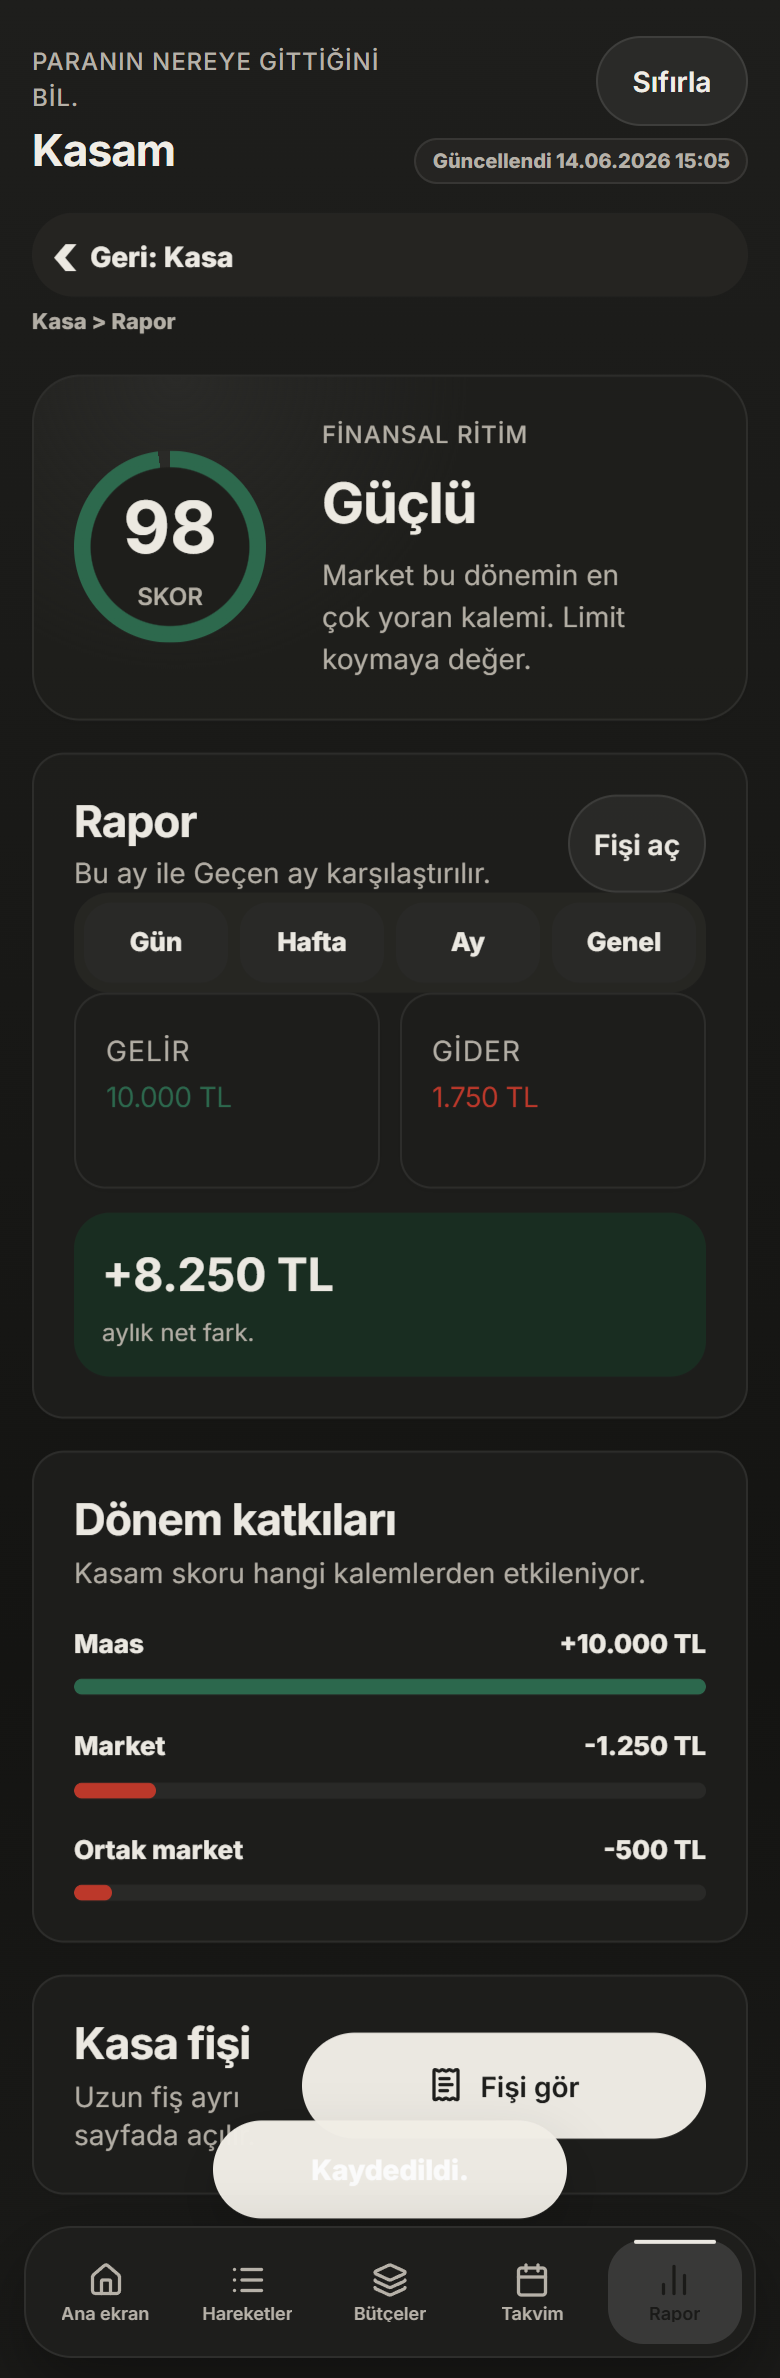
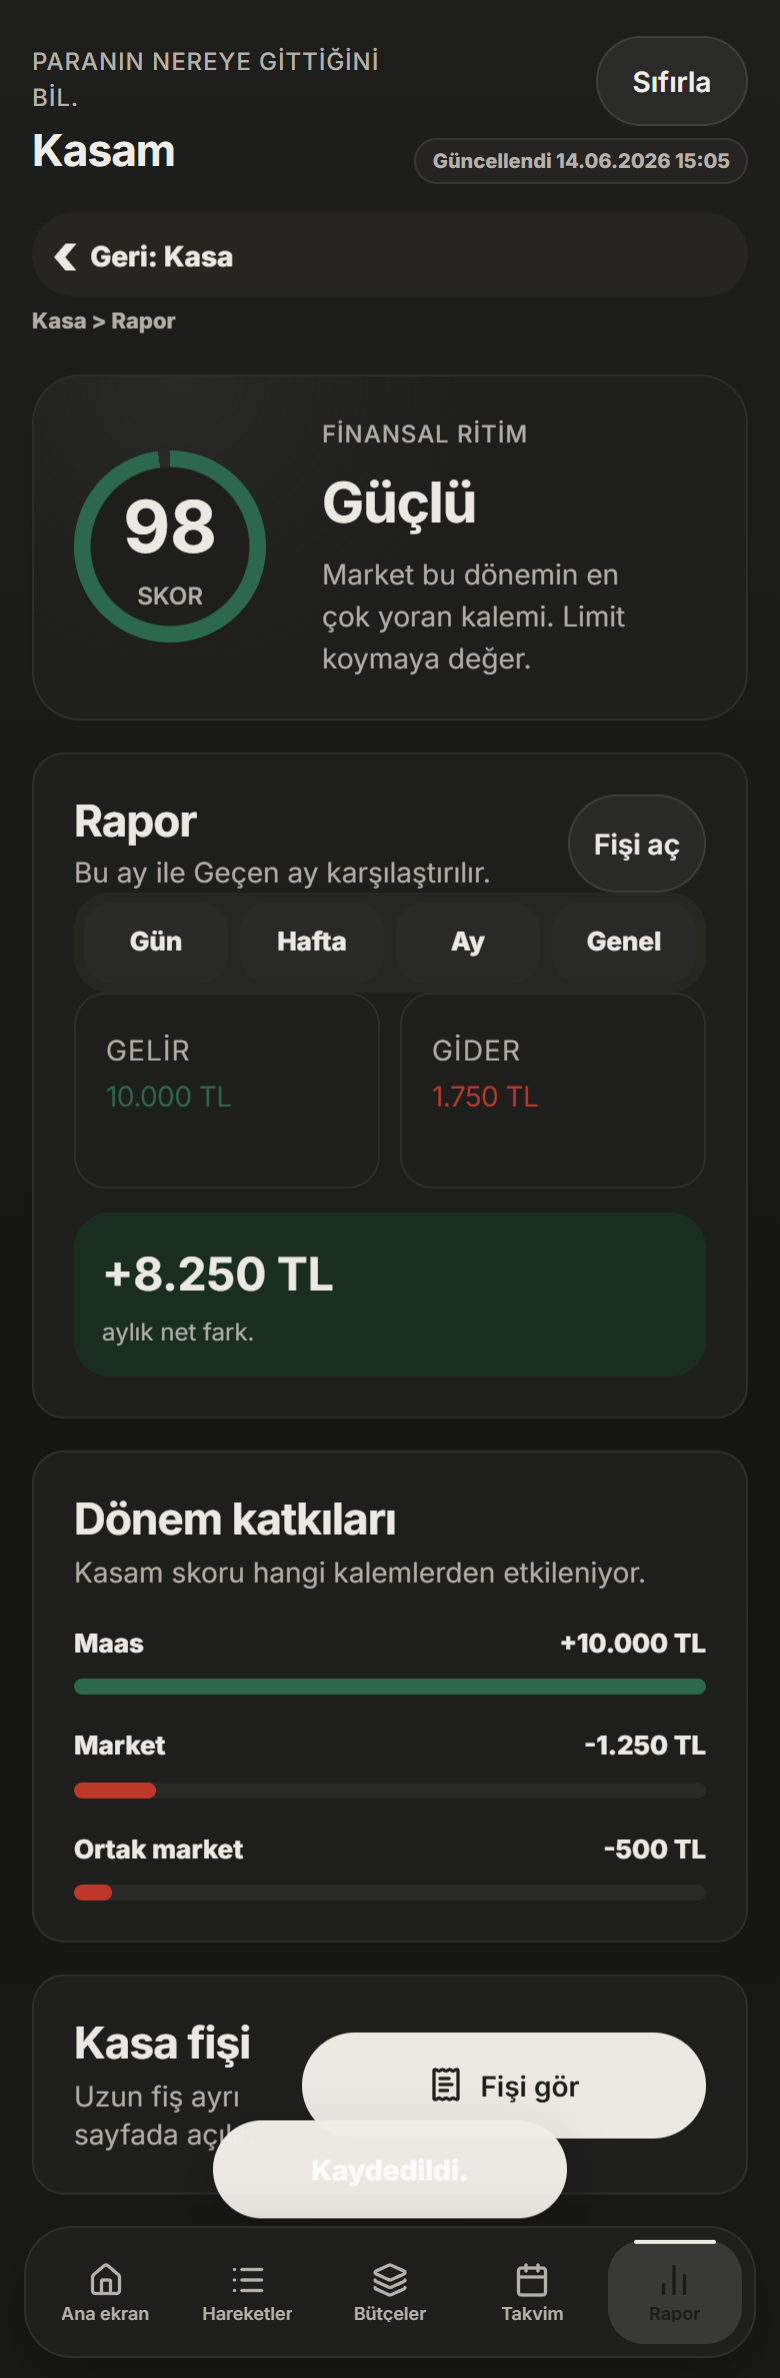
Fix Vercel production build gate

diff --git a/CODEX-CONTEXT.md b/CODEX-CONTEXT.md
@@ -14,9 +14,9 @@ Son güncelleme: 2026-06-14
 ## Teknoloji Stack
 - Frontend: Vanilla JS PWA, CSS custom properties.
 - Backend: Supabase Auth, Database, Realtime ve Storage yaklaşımı.
-- Deploy: Vercel.
+- Deploy: Vercel. Production build komutu `npm run vercel-build`; bu komut sadece statik public paketini uretir.
 - Test: Node.js `.cjs` dosyaları; toplu kapı `scripts/run-all-tests.cjs`.
-- Lint: `kasam-lint.cjs`; `pretest` ve `prebuild` öncesi çalışır.
+- Lint: `kasam-lint.cjs`; local `pretest` ve local `prebuild` öncesi çalışır. Vercel deploy build local test kapilarini calistirmaz.
 
 ## Dosya Yükleme Sırası
 Bu sıra değiştirilmez:
@@ -147,6 +147,13 @@ Tarayıcı tabanlı Playwright testleri mevcut local runtime’da `npm`, `npx` v
 - KURAL-050: Supabase email auth provider, signup ve auth health canli readiness kapisinda kontrol edilir.
 - KURAL-051: Nihai canli dogrulama auth settings, cloud cok kullanici ve reset API sonucunu tek raporda toplar.
 - KURAL-052: Tek canonical uygulama paketi korunur; eski Netlify/prototip kopyasi ve yuklenmeyen `app.js` bundle repoda/deployda tutulmaz.
+- KURAL-053: Vercel build sadece public paketini uretir; local test/lint/cloud kapilari production deploy build'e baglanmaz.
+
+## Vercel Build Protokolu
+- `vercel.json` buildCommand: `npm run vercel-build`.
+- `package.json` `vercel-build`: `node build-public.cjs`.
+- Local kalite kapilari deploydan once ayri kosulur: `node kasam-lint.cjs`, `node scripts/run-all-tests.cjs`, `node scripts/visual-audit.cjs`, gerekli ise final cloud testleri.
+- Vercel deploy logunda test komutlari degil, statik public paket uretimi gorunmelidir.
 
 ## Sifre Sifirlama Canli Kontrolu
 - Auth ayar kontrolu: `npm run test:auth-settings-live`.

diff --git a/app-status-report.md b/app-status-report.md
@@ -199,6 +199,13 @@ Tarih: 2026-06-21
 - GORSEL DOGRULAMA: `scripts/visual-audit.cjs` 14/14 gecti. Gorseller: `C:\Users\IRFAN AYYILDIZ\Desktop\kasam-test\visual-test-202606210436`.
 - CLOUD TEST: Auth settings ve canli stamp PASS (`Guncellendi 14.06.2026 23:05`). Gercek cloud multi-user ve password reset API, test girdileri olmadigi icin `NEEDS_INPUT` durumunda. Readiness raporu: `C:\Users\IRFAN AYYILDIZ\Desktop\kasam-test\readiness-202606210437`; final rapor: `C:\Users\IRFAN AYYILDIZ\Desktop\kasam-test\final-live-validation-202606210438`.
 
+## Son Guncelleme: Vercel Deploy Build Ayrimi - 2026-06-21
+- Vercel production build komutu `npm run vercel-build` olarak ayrildi.
+- `vercel-build` yalnizca `node build-public.cjs` calistirir ve `public` klasorunu uretir.
+- Local kalite kapilari korunur: `node kasam-lint.cjs`, `node scripts/run-all-tests.cjs`, `node scripts/visual-audit.cjs` ve gerekli cloud smoke testleri deploydan once ayri kosulur.
+- `KURAL-053` eklendi: Vercel build komutu local test/lint kapilarini calistirirsa `kasam-lint.cjs` FAIL verir.
+- Sebep: Son Vercel deploylari production build icinde tum test zinciri kosuldugu icin 5 saniyede Error'a dusuyordu ve canli surum eski kalma riski tasiyordu.
+
 ## Son Guncelleme: Kalite Kapilarinin Tek Komuta Baglanmasi - 2026-06-21
 - `scripts/run-all-tests.cjs` eklendi; artik `npm test` ve `npm run test:all` tum `test-*.cjs` dosyalarini calistirir.
 - `npm run test:visual` Playwright CLI yerine mevcut Chrome/CDP tabanli `scripts/visual-audit.cjs` auditini calistirir; Playwright ayrica `npm run test:playwright` olarak korunur.

diff --git a/KASAM-RULES.md b/KASAM-RULES.md
@@ -308,3 +308,9 @@ Her görev sonunda şu kontrol yapılır:
 - Sebep: Eski prototip kopyalari sifre sifirlama, cache, PWA ve kullanici algisinda iki farkli uygulama varmis gibi davranis uretir.
 - Kontrol: `kasam-lint.cjs` `netlify-upload`, `app.js`, `radiant-squirrel`, `kasa-prototip.netlify` ve build/cache icindeki `app.js` referanslarini FAIL yapar.
 - Eklendi: 2026-06-21 - eski prototip temizligi
+
+## KURAL-053: Vercel Build Sadece Paket Uretir
+- Kural: Vercel production build komutu `npm run vercel-build` olmalidir ve bu script sadece `node build-public.cjs` calistirmalidir. Local lint, unit, gorsel ve cloud test kapilari Vercel deploy build icinde calistirilmaz; deploy oncesi ayri kosulur ve ayri raporlanir.
+- Sebep: Production deploy ortami test kosucusu degildir. Tum testleri deploy build'e baglamak Vercel'in statik paketi uretmeden hata vermesine ve canli surumun eski kalmasina sebep olur.
+- Kontrol: `kasam-lint.cjs` `vercel.json` buildCommand alanini ve `package.json` `vercel-build` scriptini kontrol eder; Vercel build komutunda `run-all-tests`, `kasam-lint`, `test:` veya `check:ready` bulunursa FAIL verir.
+- Eklendi: 2026-06-21 - Vercel deploy build ayrimi

diff --git a/KASAM-OWNER-PROFILE.md b/KASAM-OWNER-PROFILE.md
@@ -31,6 +31,7 @@ Son güncelleme: 2026-06-14 — Kural sistemi ve simülasyon hazırlığı
 - “Mükemmel”, “Harika”, “Tabii ki” gibi yapay destek dili kullanma.
 - Uzun plan metinlerini kullanıcı istemedikçe yazma.
 - “Oldu” deme; hangi testin geçtiğini söyle.
+- Vercel production deploy'unu local test koşucusuna çevirme; deploy sadece paket üretmeli, kalite kanıtı ayrı raporlanmalı.
 
 ## Özellik Öncelikleri
 
@@ -59,6 +60,7 @@ Son güncelleme: 2026-06-14 — Kural sistemi ve simülasyon hazırlığı
 - Onay noktaları: Kullanıcı “haydee” dediğinde beklemeden uygula; ara onay isteme.
 - Kontrol yöntemi: Test çıktısı, simülasyon logu ve gerektiğinde ekran görüntüsü.
 - “Dur bu olmadı” dediği durumlar: Ekran kalabalığı, sarı/beyaz kontrast, ortak kasa senkronunun çalışmaması, testin gerçek veriye dayanmaması.
+- Deploy kontrol yöntemi: Vercel build Ready olmadan canlı sürüm doğrulanmış sayılmaz; build Error ise önce deploy logu ve build komutu kontrol edilir.
 
 ## Tekrarlayan Hatalar
 - Ortak kasa hareketleri diğer kullanıcılara gitmedi — birden fazla görevde tekrarlandı.
@@ -66,6 +68,7 @@ Son güncelleme: 2026-06-14 — Kural sistemi ve simülasyon hazırlığı
 - Hareket kaydı görsel kilit olmadan birden fazla kez oluşturuldu — kritik kayıt akışı hatası.
 - Ana ekran hareket satırlarında paylaşım listesi fazla uzun ve bağlam dışı göründü — kişisel/ortak kasa şablonları ayrılmalı.
 - Ortak hareket cloud alanları eksik taşındı — local çalışan komut gerçek cihazlar arası senkronu kanıtlamaz.
+- Vercel build'e tüm test kapılarının bağlanması production deploy'u kırdı — local kalite kapısı ile deploy paketi ayrılmalı.
 - Simülatör başlangıçta sadece mesaj gönderimini PASS saydı — artık yayılım, bildirim ve kişisel pay değişimi ayrı doğrulanmalı.
 - Sarı zemin beyaz yazı kaldı — birden fazla UI düzeltmesinde tekrarlandı.
 - Tahmin oyunu detayları yanlış yerde veya fazla alanda gösterildi — birden fazla kez düzeltme istendi.
@@ -102,6 +105,7 @@ Son güncelleme: 2026-06-14 — Kural sistemi ve simülasyon hazırlığı
 | Simulator | 2026-06-14 | Çok kullanıcı hataları iframe simülasyonuyla yakalanacak | Ortak kasa ve bildirim iddiaları simulator kanıtı gerektirir |
 | Kritik kayıt ve ortak kasa düzeltmeleri | 2026-06-14 | Kayıt akışı idempotent olmalı, aktör kendi sürprizini bekleyen olarak görmemeli | Kişisel satır sadece kişisel etkiyi, ortak kasa detayı paylaşımı göstermeli |
 | Cloud senkron ve simulator doğrulaması | 2026-06-14 | `paidById/splitWith/splitRatio` gibi ortak kasa alanları cloud’a eksiksiz taşınmalı | “Komut çalıştı” yeterli değil; diğer kullanıcıya hareket, bildirim ve pay sonucu kanıtlanmalı |
+| Vercel deploy ayrımı | 2026-06-21 | Production build sadece `public` paketini üretir | Local test/lint/cloud doğrulaması deploy build'den ayrı raporlanır |
 
 ## Gorev Sonu Kullanici Aksiyonu Tercihi
 - Her degisiklikten sonra kullanicinin yapmasi gerekenler ayri yazilmali.